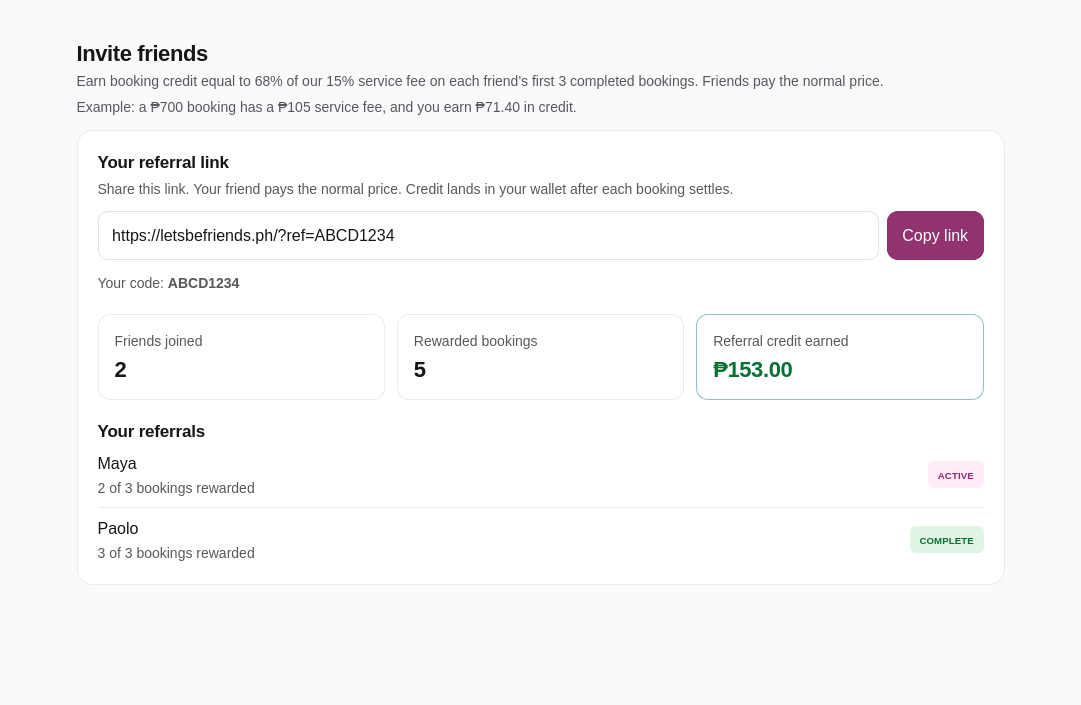
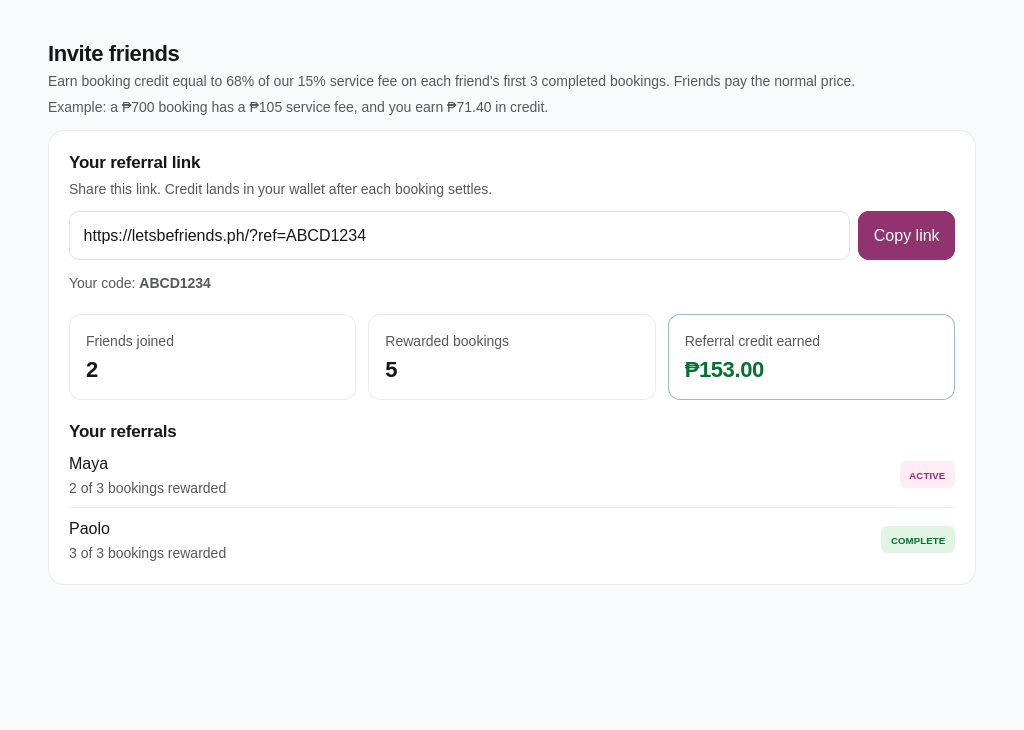
fix(referrals): fix error wiring and success feedback

diff --git a/apps/mobile/src/app/onboarding.tsx b/apps/mobile/src/app/onboarding.tsx
@@ -16,7 +16,7 @@ import { useMutation, useQuery } from 'convex/react'
 import * as Location from 'expo-location'
 import { router } from 'expo-router'
 import { useEffect, useMemo, useRef, useState } from 'react'
-import { ActivityIndicator, Linking, Pressable, StyleSheet, TextInput, View } from 'react-native'
+import { AccessibilityInfo, ActivityIndicator, Linking, Pressable, StyleSheet, TextInput, View } from 'react-native'
 
 import { useMobileAuth } from '@/auth/MobileAuth'
 import { buildMobileWebHandoffUrl, resolveMobileWebAppConfiguration } from '@/backend/config'
@@ -24,7 +24,7 @@ import { mobileApi } from '@/backend/client'
 import { ActionButton } from '@/design-system/atoms/ActionButton'
 import { AppIcon } from '@/design-system/atoms/AppIcon'
 import { Chip } from '@/design-system/atoms/Chip'
-import { useAppToastMessage } from '@/design-system/molecules/AppToast'
+import { showAppToast, useAppToastMessage } from '@/design-system/molecules/AppToast'
 import { Screen } from '@/design-system/templates/Screen'
 import { PageSkeleton } from '@/design-system/templates/PageSkeleton'
 import { openPolicyDocument } from '@/features/policy/policyLinks'
@@ -222,6 +222,14 @@ function ConnectedOnboarding({
     setStep((current) => clampOnboardingStep(current, goal))
   }, [goal])
 
+  function focusUsernameField() {
+    if (!viewer.username) {
+      usernameRef.current?.focus()
+      return
+    }
+    AccessibilityInfo.announceForAccessibility('Referral prompt dismissed. Continue with your welcome guide.')
+  }
+
   async function submitReferralCode(code: string) {
     if (referralBusy) return
     setReferralBusy(true)
@@ -230,8 +238,8 @@ function ConnectedOnboarding({
     try {
       await attributeReferral({ code })
       setReferralNotice('Referral code added. It will apply to your first completed bookings.')
-      setMessage('Referral code added. It will apply to your first completed bookings.')
-      usernameRef.current?.focus()
+      showAppToast('Referral code added. It will apply to your first completed bookings.', 'success')
+      focusUsernameField()
     } catch {
       setReferralError('We could not add this code. Check it and try again.')
     } finally {
@@ -245,7 +253,7 @@ function ConnectedOnboarding({
     setReferralError('')
     try {
       await dismissReferralPrompt({})
-      usernameRef.current?.focus()
+      focusUsernameField()
     } catch {
       // The referral prompt is optional and must not block onboarding.
     } finally {

diff --git a/apps/web/src/features/referral/ReferralCodeCard.stories.tsx b/apps/web/src/features/referral/ReferralCodeCard.stories.tsx
@@ -1,0 +1,44 @@
+import type { Meta, StoryObj } from '@storybook/react-vite'
+import { expect, fn, within } from 'storybook/test'
+
+import { ReferralCodeCard } from './ReferralCodeCard'
+
+const meta = {
+  title: 'Features/Referral/Referral code card',
+  component: ReferralCodeCard,
+  parameters: { layout: 'padded' },
+  globals: { viewport: { value: 'desktop', isRotated: false } },
+  args: {
+    busy: false,
+    error: '',
+    notice: '',
+    onSubmit: fn(),
+    onSkip: fn(),
+  },
+} satisfies Meta<typeof ReferralCodeCard>
+
+export default meta
+type Story = StoryObj<typeof meta>
+
+export const Default: Story = {
+  play: async ({ canvasElement }) => {
+    const canvas = within(canvasElement)
+    await expect(canvas.getByText(/Have a friend's code/)).toBeVisible()
+    await expect(canvas.getByRole('button', { name: 'Dismiss' })).toBeVisible()
+  },
+}
+
+export const ErrorState: Story = {
+  args: { error: 'We could not add this code. Check it and try again.' },
+  play: async ({ canvasElement }) => {
+    await expect(within(canvasElement).getByRole('alert')).toBeVisible()
+  },
+}
+
+export const Dark: Story = {
+  globals: { theme: 'dark' },
+}
+
+export const Narrow: Story = {
+  globals: { viewport: { value: 'mobileSmall', isRotated: false } },
+}

diff --git a/apps/web/src/features/referral/ReferralCodeCard.tsx b/apps/web/src/features/referral/ReferralCodeCard.tsx
@@ -48,19 +48,13 @@ export function ReferralCodeCard({
         <p className="text-h3">Have a friend's code? <span className="label-aux">Optional</span></p>
         <p className="text-meta mt-1">Add it now to credit your friend. This prompt won't appear again.</p>
       </div>
-      {displayError && (
-        <div className="notice notice-danger" id="referral-code-error" role="alert">
-          <span className="notice-icon">!</span>
-          <span>{displayError}</span>
-        </div>
-      )}
       {notice && (
         <div className="notice" role="status">
           <span className="notice-icon">i</span>
           <span>{notice}</span>
         </div>
       )}
-      <FormField label="Referral code" aux="Optional">
+      <FormField label="Referral code" aux="Optional" error={displayError || undefined}>
         <input
           ref={inputRef}
           className="field"
@@ -74,8 +68,6 @@ export function ReferralCodeCard({
           autoCapitalize="characters"
           autoComplete="off"
           disabled={busy}
-          aria-invalid={Boolean(displayError)}
-          aria-describedby={displayError ? 'referral-code-error' : undefined}
         />
       </FormField>
       <div className="flex flex-wrap gap-2">

diff --git a/apps/web/src/routes/onboarding.tsx b/apps/web/src/routes/onboarding.tsx
@@ -222,7 +222,11 @@ export function OnboardingPage() {
   const acceptanceError = 'Agree to both the Terms and Conditions and the Privacy Policy in Step 5 before continuing.'
 
   const focusUsernameField = () => {
-    window.setTimeout(() => document.getElementById('onboarding-username')?.focus(), 0)
+    window.setTimeout(() => {
+      const input = document.getElementById('onboarding-username') as HTMLInputElement | null
+      if (input && !input.disabled) input.focus()
+      else document.getElementById('onboarding-username-heading')?.focus()
+    }, 0)
   }
 
   const submitReferralCode = async (code: string) => {
@@ -434,7 +438,7 @@ export function OnboardingPage() {
         {step === 1 && (
           <div>
             <p className="eyebrow">Step 1</p>
-            <h2 className="text-h1 mt-2">Choose your unique username.</h2>
+            <h2 id="onboarding-username-heading" tabIndex={-1} className="text-h1 mt-2">Choose your unique username.</h2>
             <p className="text-body muted mt-2">People can use it to find the right profile directly. Your username is public, unique, and permanent once saved.</p>
             <div className="onboarding-username-card mt-6">
               {viewer.username ? (

diff --git a/apps/mobile/src/features/referral/ReferralCodeCard.stories.tsx b/apps/mobile/src/features/referral/ReferralCodeCard.stories.tsx
@@ -1,0 +1,40 @@
+import type { Meta, StoryObj } from '@storybook/react-native-web-vite'
+import { expect, fn, within } from 'storybook/test'
+
+import { ReferralCodeCard } from './ReferralCodeCard'
+
+const meta = {
+  title: 'Features/Referral/Referral code card',
+  component: ReferralCodeCard,
+  parameters: { layout: 'fullscreen' },
+  globals: { viewport: { value: 'mobileDefault', isRotated: false } },
+  args: {
+    busy: false,
+    error: '',
+    notice: '',
+    onSubmit: fn(),
+    onSkip: fn(),
+  },
+} satisfies Meta<typeof ReferralCodeCard>
+
+export default meta
+type Story = StoryObj<typeof meta>
+
+export const Default: Story = {
+  play: async ({ canvasElement }) => {
+    const canvas = within(canvasElement)
+    await expect(canvas.getByText(/Have a friend's code/)).toBeVisible()
+    await expect(canvas.getByRole('button', { name: 'Dismiss' })).toBeVisible()
+  },
+}
+
+export const ErrorState: Story = {
+  args: { error: 'We could not add this code. Check it and try again.' },
+  play: async ({ canvasElement }) => {
+    await expect(within(canvasElement).getByRole('alert')).toBeVisible()
+  },
+}
+
+export const Dark: Story = {
+  globals: { theme: 'dark' },
+}

diff --git a/apps/web/src/features/referral/ReferralPanelView.tsx b/apps/web/src/features/referral/ReferralPanelView.tsx
@@ -79,7 +79,7 @@ export function ReferralPanelView({
           <div className="space-y-3">
             <div>
               <p className="text-h3">Your referral link</p>
-              <p className="text-meta mt-1">Share this link. Your friend pays the normal price. Credit lands in your wallet after each booking settles.</p>
+              <p className="text-meta mt-1">Share this link. Credit lands in your wallet after each booking settles.</p>
             </div>
             <div className="flex flex-col gap-2 sm:flex-row">
               <input className="field flex-1" readOnly value={shareUrl} aria-label="Your referral link" onFocus={(event) => event.currentTarget.select()} />
